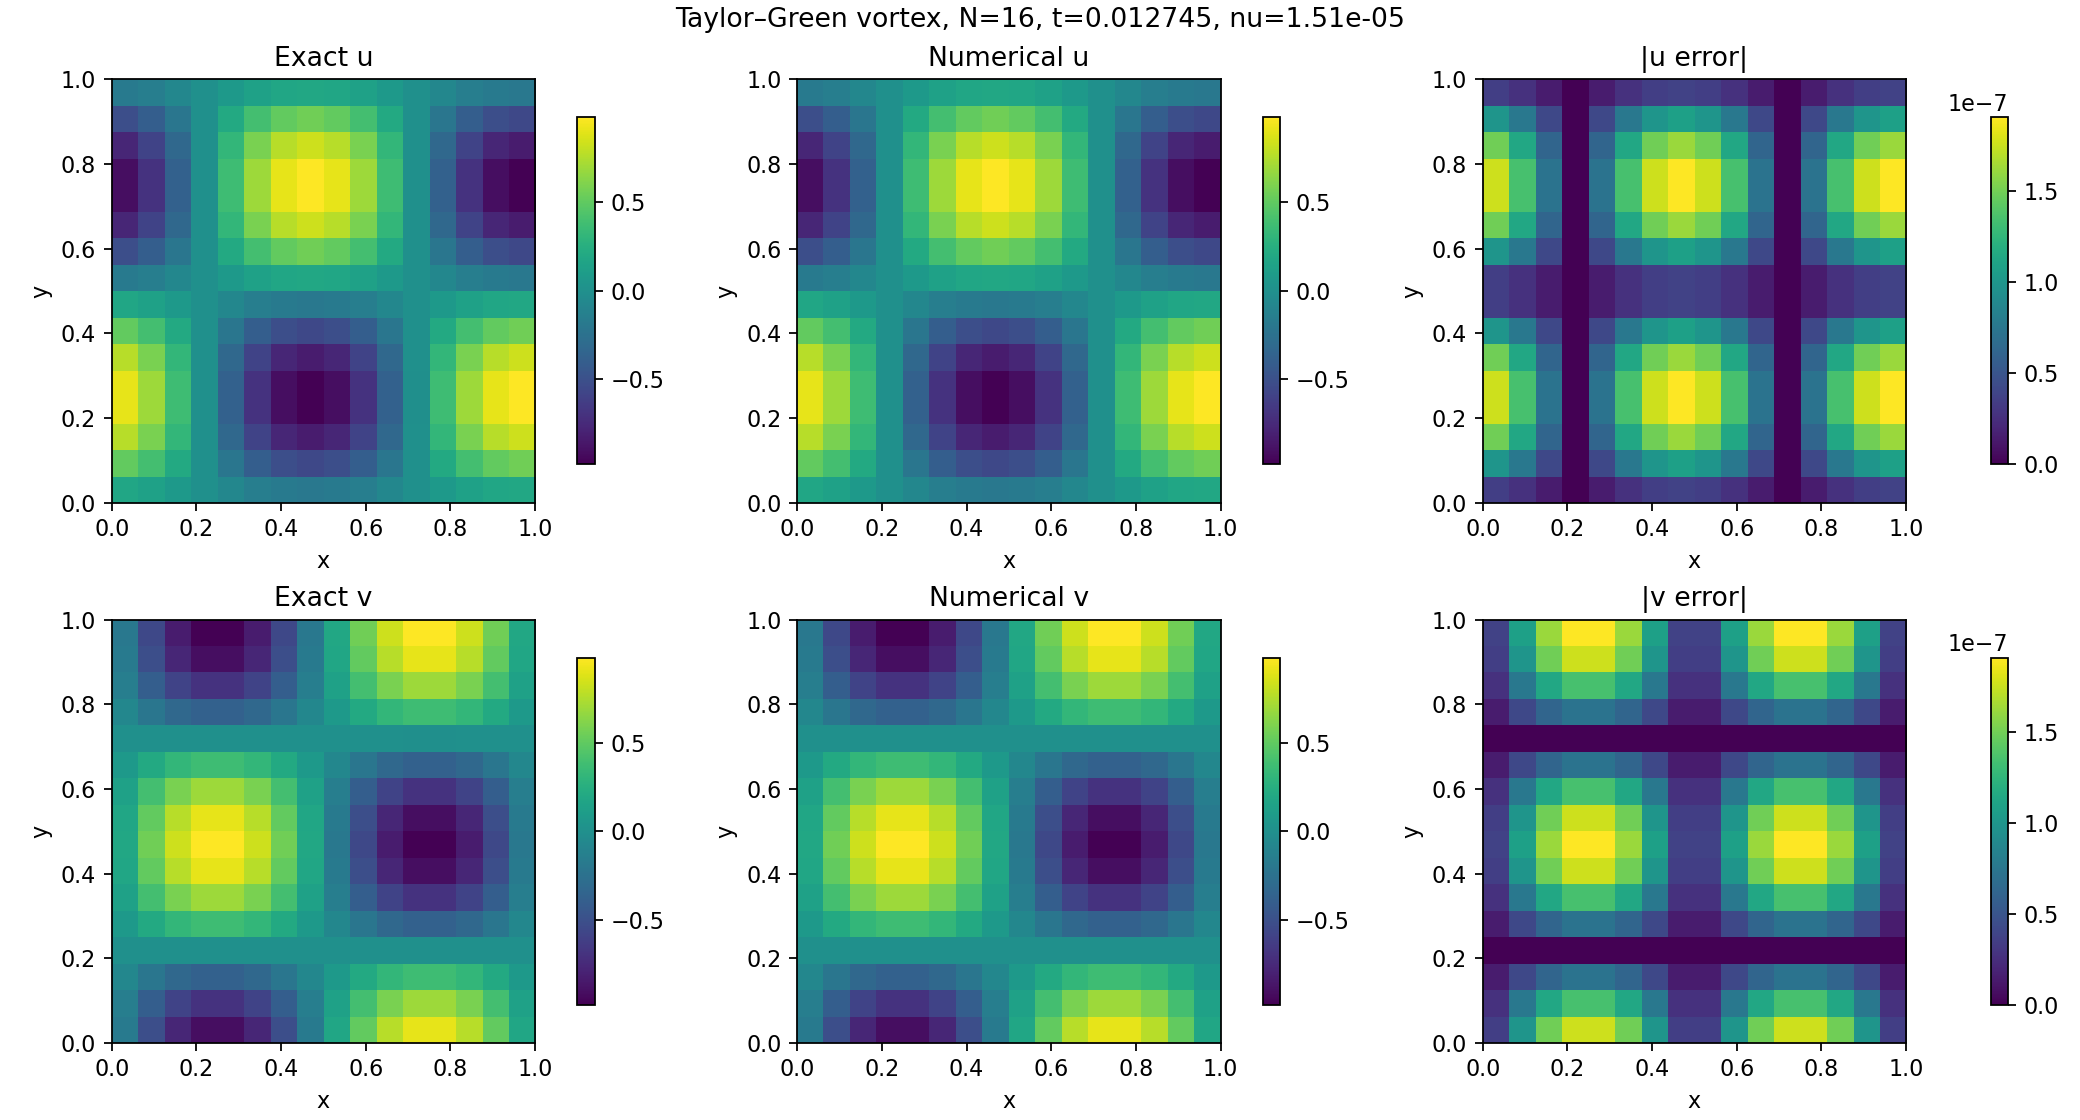
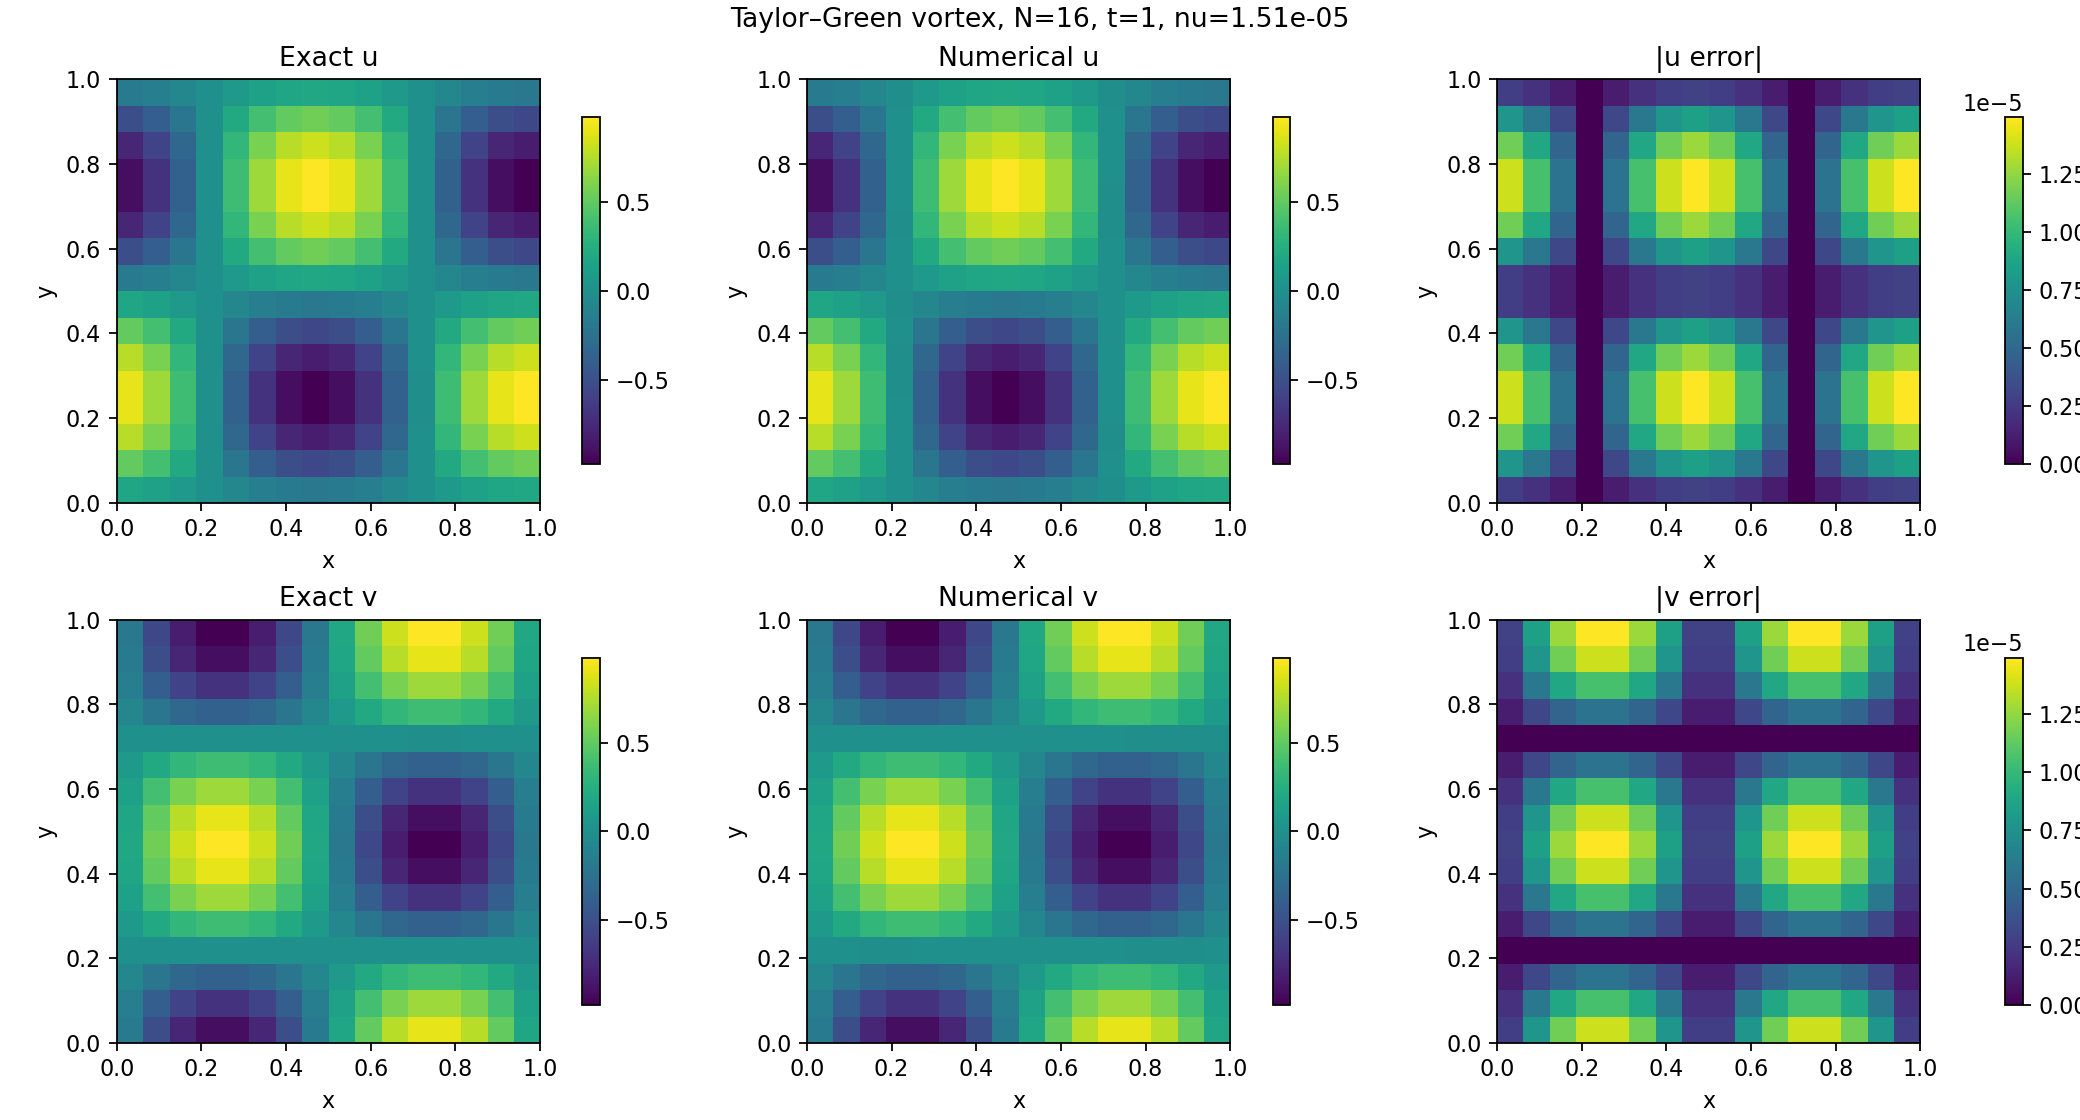
dt capat en la ultima iteracio + correccio getter

diff --git a/Solver.cpp b/Solver.cpp
@@ -1,3 +1,4 @@
+
 #include "Solver.h"
 #include "NavierStokesTerms.h"
 
@@ -11,7 +12,7 @@ Solver::Solver(int Nx, int Ny, double Lx, double Ly,
                double nu, double rho)
     : m_Nx(Nx), m_Ny(Ny), m_Lx(Lx), m_Ly(Ly),
       m_dx(Lx / Nx), m_dy(Ly / Ny), m_nu(nu), m_rho(rho),
-      m_dtd(0.5*((Lx/Nx)*(Lx/Nx))/nu),m_dtc(m_dtd),m_dt(m_dtc),
+      m_dtd(0.5*((Lx/Nx)*(Lx/Nx))/nu), m_dtc(m_dtd), m_dt(m_dtc),
       m_RuPrevious(static_cast<std::size_t>(Nx) * Ny, 0.0),
       m_RvPrevious(static_cast<std::size_t>(Nx) * Ny, 0.0),
       m_up(static_cast<std::size_t>(Nx) * Ny, 0.0),
@@ -98,12 +99,25 @@ void Solver::solvePoissonFFT(const Umesh& u, const Vmesh& v)
     (void)v;
 }
 
-void Solver::step(Umesh& u, Vmesh& v, Pmesh& p)
+void Solver::step(Umesh& u, Vmesh& v, Pmesh& p, double dtMax)
 {
     const double cellVolume = m_dx * m_dy;
     std::vector<double> Ru(m_RuPrevious.size());
     std::vector<double> Rv(m_RvPrevious.size());
-    double u_max = u.max_val(), v_max = v.max_val();
+
+    // Determine the timestep once, before computing the predictor.
+    const double u_max = u.max_val();
+    const double v_max = v.max_val();
+    const double velocity_max = std::max(u_max, v_max);
+
+    m_dtc = (velocity_max > 0.0)
+          ? m_dx / velocity_max
+          : m_dtd;
+
+    m_dt = 0.1 * std::min(m_dtd, m_dtc);
+
+    // Do not advance beyond the requested final time.
+    m_dt = std::min(m_dt, dtMax);
 
     // LOOP 1: convective/diffusive terms and AB2 predictor.
     // FVM functions are unchanged from the Part A verification.
@@ -114,11 +128,6 @@ void Solver::step(Umesh& u, Vmesh& v, Pmesh& p)
             const double difU  = FVM::computeDiffusiveU(i, j, u, m_nu);
             const double convV = FVM::computeConvectiveV(i, j, u, v);
             const double difV  = FVM::computeDiffusiveV(i, j, u, v, m_nu);
-
-            //dt determination
-
-            u_max > v_max ? m_dtc = (m_Lx/m_Nx)/u_max : m_dtc = (m_Lx/m_Nx)/v_max;
-            m_dtc > m_dtd ? m_dt = 0.1 * m_dtd : m_dt = 0.1 * m_dtc;
 
             // Momentum equation: du/dt = -C/V + D/V - (1/rho) grad(p).
             Ru[k] = (-convU + difU) / cellVolume;
@@ -149,10 +158,6 @@ void Solver::step(Umesh& u, Vmesh& v, Pmesh& p)
             u(i, j) = m_up[k] - (m_pseudoPressure[index(ip, j)] - m_pseudoPressure[k]) / m_dx;
             v(i, j) = m_vp[k] - (m_pseudoPressure[index(i, jp)] - m_pseudoPressure[k]) / m_dy;
             p(i, j) = (m_rho / m_dt) * m_pseudoPressure[k];
-
-            //update u_max v_max
-            u(i,j) > u_max ? u_max = u(i,j) : u_max = u_max;
-            v(i,j) > v_max ? v_max = v(i,j) : v_max = v_max;
         }
     }
 
@@ -160,4 +165,6 @@ void Solver::step(Umesh& u, Vmesh& v, Pmesh& p)
     m_RuPrevious.swap(Ru);
     m_RvPrevious.swap(Rv);
     ++m_step;
+    m_time += m_dt;
 }
+

diff --git a/Solver.h b/Solver.h
@@ -1,3 +1,4 @@
+
 #ifndef SOLVER_H
 #define SOLVER_H
 
@@ -16,10 +17,10 @@ public:
     Solver& operator=(const Solver&) = delete;
 
     // One complete time step: AB2 predictor -> Poisson solve -> correction.
-    void step(Umesh& u, Vmesh& v, Pmesh& p);
+    void step(Umesh& u, Vmesh& v, Pmesh& p, double dtMax);
 
     int getStep() const { return m_step; }
-    double getTime() const { return m_step * m_dt; }
+    double getTime() const { return m_time; }
     double getdt() const { return m_dt; }
 
 private:
@@ -27,6 +28,7 @@ private:
     double m_Lx, m_Ly, m_dx, m_dy;
     double m_nu, m_rho, m_dtd, m_dtc, m_dt;
     int m_step = 0;
+    double m_time = 0.0;
 
     // Previous R^n fields, flattened as j*Nx+i. R^{-1}=0 initially.
     std::vector<double> m_RuPrevious, m_RvPrevious;

diff --git a/NS.cpp b/NS.cpp
@@ -100,14 +100,14 @@ int main (int argc, char** argv)
 		PART B/C: PRESSURE-VELOCITY COUPLING AND TIME LOOP
 	*******************************************************/
 	Solver solver(Nx, Ny, Lx, Ly, nu, rho);
-	double dt = solver.getdt();
-	for (double time = 0; time < tFinal; time += dt) {
-		solver.step(u, v, p);
-		std::cout << "Completed step " << solver.getStep()
-					  << ", dt = " << dt
-			          << ", t = " << solver.getTime() << "\n";
+	while (solver.getTime() < tFinal) {
+		
+		const double dtMax = tFinal - solver.getTime();
+		solver.step(u, v, p, dtMax);
 
-		dt = solver.getdt();
+		std::cout << "Completed step " << solver.getStep()
+				<< ", dt = " << solver.getdt()
+				<< ", t = " << solver.getTime() << "\n";
 	}
 
 	// Final fields for inspection / verification.
